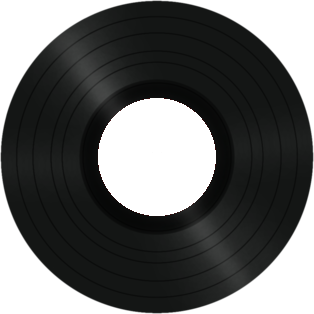
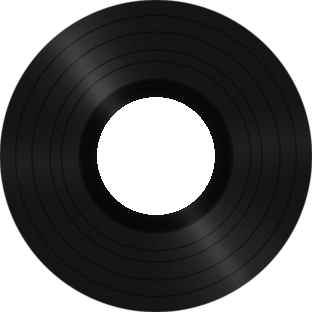
crop png and small css edit

diff --git a/client/src/components/pages/Symphonies.css b/client/src/components/pages/Symphonies.css
@@ -62,23 +62,29 @@
   width: var(--size-vinyl);
   height: var(--size-vinyl);
   border-radius: 50%;
-  background: url("../../img/symphonies/vinyl-rim_hole.png") center/contain no-repeat,
-    /* bord du disque */ var(--cover) center/38% no-repeat; /* jaquette au centre */
+  position: relative;
   box-shadow: 0 8px 16px rgba(0, 0, 0, 0.6);
-  margin: 0 auto;
-  transition: filter 0.3s;
+  margin: 0 auto; 
 }
 
-/* Rotation en lecture */
-@keyframes spin {
-  from {
-    transform: rotate(0deg);
-  }
-  to {
-    transform: rotate(360deg);
-  }
+.vinyl::after{
+  content:"";
+  position:absolute;
+  inset:0;
+  border-radius:50%;
+  background:
+      url("../../img/symphonies/vinyl-rim_hole.png") center/contain no-repeat,
+      var(--cover) center/38% no-repeat;
+  transition:filter .3s;
 }
-.spinning {
+
+@keyframes spin{
+  from{ transform:rotate(0deg); }
+  to  { transform:rotate(360deg); }
+}
+
+/* Rotation appliquée au pseudo-élément seulement */
+.spinning::after{
   animation: spin 3.5s linear infinite;
 }
 
@@ -92,6 +98,7 @@
   --pivot-y: 10%;   /* …ou en % : 4.5%, 4.2%        */
   transform-origin: var(--pivot-x) var(--pivot-y); /* point de pivot (dépend du visuel) */
   transition: transform 0.6s ease;
+  pointer-events:none;
 }
 
 /* ---------- Bouton Play / Pause ---------- */
